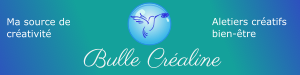
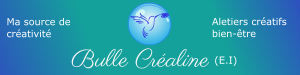
Renaming

Changed region(s): [[0.21, 0.64, 0.81, 0.9333]]

diff --git a/src/models/service.rs b/src/models/service.rs
@@ -66,7 +66,7 @@ pub fn section_title(pro: bool) -> &'static str {
 /// A constant rather than a field: every bookable workshop runs at this one
 /// address, and a workshop run for a structure takes place at the structure's, so
 /// there is nothing to choose per row. A second venue would make it a field.
-pub const STUDIO_ADDRESS: &str = "Bulle Créaline, 5 Rue Marc Seguin, 42110 Feurs";
+pub const STUDIO_ADDRESS: &str = "Bulle Créaline (E.I), 5 Rue Marc Seguin, 42110 Feurs";
 
 /// The same address on a map, for whoever would rather be guided than read.
 pub const STUDIO_MAP_URL: &str = "https://maps.app.goo.gl/Fgmpg9RF8HiPGrkf7";
@@ -93,69 +93,34 @@ pub fn is_valid_slug(candidate: &str) -> bool {
 pub fn slugify(label: &str) -> String {
     let mut slug = String::with_capacity(label.len());
 
-    for character in label.chars() {
-        match fold(character) {
-            // One hyphen per run of anything unusable, and never a leading one.
-            "" => {
-                if !slug.is_empty() && !slug.ends_with('-') {
-                    slug.push('-');
-                }
-            }
-            folded => slug.push_str(folded),
+    // `to_lowercase` rather than `to_ascii_lowercase`, which leaves 'À' and 'Œ'
+    // untouched: they would then fall through as unusable, and every accented
+    // capital would vanish from the slug.
+    for character in label.chars().flat_map(char::to_lowercase) {
+        match character {
+            'a'..='z' | '0'..='9' => slug.push(character),
+            _ => match ascii_for(character) {
+                Some(ascii) => slug.push_str(ascii),
+                // One hyphen per run of anything unusable, never a leading one.
+                None if !slug.is_empty() && !slug.ends_with('-') => slug.push('-'),
+                None => {}
+            },
         }
     }
 
     slug.trim_end_matches('-').to_owned()
 }
 
-/// The ASCII a character contributes to a slug, or `""` when it contributes none.
+/// The ASCII a French diacritic or ligature stands for, if any.
 ///
-/// The accented letters are spelled out rather than computed: stripping diacritics
-/// properly would mean pulling in Unicode normalization for the handful of letters
-/// French actually uses.
+/// Spelled out rather than computed: Unicode normalization would decompose the
+/// accented letters, but not `œ` or `æ`, so a table would be needed either way --
+/// and this one is twelve lines rather than a transliteration crate shipped in
+/// the WASM bundle for the eighteen characters French actually uses.
 ///
-/// Lowercased through `char::to_lowercase` rather than `to_ascii_lowercase`, which
-/// leaves `'À'` and `'Œ'` untouched and would drop every accented capital.
-fn fold(character: char) -> &'static str {
-    let lowered = character.to_lowercase().next().unwrap_or(character);
-
-    match lowered {
-        'a' => "a",
-        'b' => "b",
-        'c' => "c",
-        'd' => "d",
-        'e' => "e",
-        'f' => "f",
-        'g' => "g",
-        'h' => "h",
-        'i' => "i",
-        'j' => "j",
-        'k' => "k",
-        'l' => "l",
-        'm' => "m",
-        'n' => "n",
-        'o' => "o",
-        'p' => "p",
-        'q' => "q",
-        'r' => "r",
-        's' => "s",
-        't' => "t",
-        'u' => "u",
-        'v' => "v",
-        'w' => "w",
-        'x' => "x",
-        'y' => "y",
-        'z' => "z",
-        '0' => "0",
-        '1' => "1",
-        '2' => "2",
-        '3' => "3",
-        '4' => "4",
-        '5' => "5",
-        '6' => "6",
-        '7' => "7",
-        '8' => "8",
-        '9' => "9",
+/// Plain letters and digits never reach here: [`slugify`] keeps them by range.
+fn ascii_for(character: char) -> Option<&'static str> {
+    Some(match character {
         'à' | 'â' | 'ä' => "a",
         'ç' => "c",
         'é' | 'è' | 'ê' | 'ë' => "e",
@@ -165,8 +130,8 @@ fn fold(character: char) -> &'static str {
         'ÿ' => "y",
         'œ' => "oe",
         'æ' => "ae",
-        _ => "",
-    }
+        _ => return None,
+    })
 }
 
 /// The icons the admin can pick from, as `(name, what it looks like)`.
@@ -300,6 +265,9 @@ mod tests {
             // would then fall through as unusable and vanish from the slug.
             ("Œuvre collective", "oeuvre-collective"),
             ("ÉVEIL À L'ART", "eveil-a-l-art"),
+            // Already a slug: the range that keeps plain letters and digits must
+            // hand them back untouched rather than eat them as unusable.
+            ("aperos-creatifs", "aperos-creatifs"),
         ];
 
         for (label, expected) in cases {

diff --git a/src/pages/admin/services.rs b/src/pages/admin/services.rs
@@ -29,7 +29,7 @@ use crate::components::ui::select::{
 use crate::components::ui::service_icon::ServiceIcon;
 use crate::components::ui::table::*;
 use crate::components::ui::textarea::Textarea;
-use crate::models::{SERVICE_ICONS, ServiceView, icon_label, section_title};
+use crate::models::{SERVICE_ICONS, ServiceView, icon_label, section_title, slugify};
 use crate::pages::admin::AdminShell;
 
 /// What the admin is doing to the workshop list right now.
@@ -275,6 +275,27 @@ fn ServiceForm(
     // method on the `else` block at a glance, which is not what it means.
     let pro_value = if pro { "oui" } else { "non" };
 
+    let label_text = RwSignal::new(label.clone());
+    let slug_text = RwSignal::new(slug.clone());
+    // What the prefill last wrote, to tell its own doing from the admin's typing.
+    let generated = RwSignal::new(String::new());
+
+    // Creation only: on an edit the slug is read-only text, there being sessions
+    // and bookings filed under it.
+    if !editing_existing {
+        Effect::new(move |_| {
+            let candidate = slugify(&label_text.get());
+
+            // Silent for good once the admin has typed a slug of their own: the
+            // field is theirs from then on, and rewording the name must not undo
+            // it. Both start empty, so the first comparison holds and it fills.
+            if slug_text.get_untracked() == generated.get_untracked() {
+                slug_text.set(candidate.clone());
+                generated.set(candidate);
+            }
+        });
+    }
+
     view! {
         <Card>
             <CardHeader>
@@ -297,7 +318,33 @@ fn ServiceForm(
 
                             <div class="grid gap-3">
                                 <Label r#for="label">"Nom"</Label>
-                                <Input id="label" name="label" required=true attr:value=label/>
+                                // Bound only on a creation, where the slug follows
+                                // what is typed here. `bind:value` renders no
+                                // `value` attribute server-side, so an edit keeps
+                                // the plain attribute or it would open blank.
+                                {if editing_existing {
+                                    Either::Left(
+                                        view! {
+                                            <Input
+                                                id="label"
+                                                name="label"
+                                                required=true
+                                                attr:value=label
+                                            />
+                                        },
+                                    )
+                                } else {
+                                    Either::Right(
+                                        view! {
+                                            <Input
+                                                id="label"
+                                                name="label"
+                                                required=true
+                                                bind_value=label_text
+                                            />
+                                        },
+                                    )
+                                }}
                             </div>
 
                             <div class="grid gap-3">
@@ -324,6 +371,7 @@ fn ServiceForm(
                                                 id="slug"
                                                 name="slug"
                                                 required=true
+                                                bind_value=slug_text
                                                 attr:placeholder="aperos-creatifs"
                                             />
                                             <p class="text-sm text-muted-foreground">

diff --git a/src/app.rs b/src/app.rs
@@ -24,13 +24,13 @@ pub fn App() -> impl IntoView {
         <Stylesheet id="leptos" href="/pkg/bulle_crealine.css"/>
 
         // sets the document title
-        <Title text="Bulle Créaline"/>
+        <Title text="Bulle Créaline (E.I)"/>
 
-        <Meta property="og:title" content="Bulle Créaline" />
+        <Meta property="og:title" content="Bulle Créaline (E.I)" />
         <Meta property="og:url" content="https://bulle-crealine.onrender.com" />
         <Meta property="og:image" content="https://bulle-crealine.onrender.com/assets/meta.png" />
-        <Meta property="og:description" content="Médiation artistique en relation d'aide." />
-        <Meta property="og:site_name" content="Bulle Créaline" />
+        <Meta property="og:description" content="Ateliers créatifs à Feurs" />
+        <Meta property="og:site_name" content="Bulle Créaline (E.I)" />
         <Meta property="og:type" content="website" />
 
         // content for this welcome page

diff --git a/src/pages/moi_et_mon_atelier/qui_suis_je.rs b/src/pages/moi_et_mon_atelier/qui_suis_je.rs
@@ -65,7 +65,7 @@ pub fn QuiSuisJePage() -> impl IntoView {
                     <div class="space-y-4 rounded-[2rem] border border-border bg-surface text-surface-foreground p-6 shadow-sm">
                         <p class="text-base leading-8">
                             "Avec "
-                            <span class="font-semibold text-heading">"La Bulle Créaline"</span>
+                            <span class="font-semibold text-heading">"La Bulle Créaline (E.I)"</span>
                             ", je souhaite offrir un lieu chaleureux, vivant et rassurant, où l'on vient créer, souffler et repartir avec un peu plus de fierté et de joie."
                         </p>
                         /* Sized at 24px so it clears WCAG as large text: the accent

diff --git a/src/components/blocks/footer_block.rs b/src/components/blocks/footer_block.rs
@@ -12,7 +12,7 @@ pub fn FooterBlock() -> impl IntoView {
                     <div class="flex items-center gap-2">
                         <img src="/assets/icon.svg" alt="Logo" class="w-16 h-16"/>
                         <div class="flex flex-col">
-                            <div>Bulle Créaline</div>
+                            <div>Bulle Créaline (E.I)</div>
                             <div class="text-sm text-muted-foreground">Ma source de créativité</div>
                         </div>
                     </div>

diff --git a/src/pages/service.rs b/src/pages/service.rs
@@ -62,7 +62,7 @@ pub fn ServicePage() -> impl IntoView {
                     match found {
                         None => Either::Left(view! { <NotFound/> }),
                         Some(service) => {
-                            let title = format!("{} — Bulle Créaline", service.label);
+                            let title = format!("{} — Bulle Créaline (E.I)", service.label);
 
                             Either::Right(
                                 view! {

diff --git a/src/pages/home.rs b/src/pages/home.rs
@@ -11,7 +11,7 @@ pub fn HomePage() -> impl IntoView {
 
     view! {
         <div class="home-hero border border-(--border) rounded-[2rem] shadow-(--shadow) max-w-4xl mx-auto">
-            <h2 class="home-hero-title">"Bulle Créaline"</h2>
+            <h2 class="home-hero-title">"Bulle Créaline (E.I)"</h2>
             <h3>"Ma source de créativité"</h3>
             <h3>"Ateliers créatifs bien-être"</h3>
         </div>

diff --git a/src/pages/moi_et_mon_atelier/catalogue.rs b/src/pages/moi_et_mon_atelier/catalogue.rs
@@ -17,7 +17,7 @@ pub fn CataloguePage() -> impl IntoView {
     let services = Resource::new(|| (), |()| async move { all_services().await });
 
     view! {
-        <Title text="Catalogue des ateliers — Bulle Créaline"/>
+        <Title text="Catalogue des ateliers — Bulle Créaline (E.I)"/>
 
         <div class="py-6 mx-auto space-y-10 max-w-6xl">
             <div class="space-y-4 text-center">

diff --git a/src/pages/not_found.rs b/src/pages/not_found.rs
@@ -26,7 +26,7 @@ pub fn NotFound() -> impl IntoView {
     }
 
     view! {
-        <Title text="Bientôt disponible — Bulle Créaline"/>
+        <Title text="Bientôt disponible — Bulle Créaline (E.I)"/>
 
         <div class="flex flex-col gap-4 items-center py-16 mx-auto max-w-2xl text-center">
             <h1 class="text-4xl font-semibold tracking-tight text-heading">

diff --git a/src/pages/admin/dashboard.rs b/src/pages/admin/dashboard.rs
@@ -8,7 +8,7 @@ use crate::pages::admin::AdminShell;
 #[component]
 pub fn AdminPage() -> impl IntoView {
     view! {
-        <Title text="Administration — Bulle Créaline"/>
+        <Title text="Administration — Bulle Créaline (E.I)"/>
 
         <AdminShell title="Administration" current="/admin">
             <div class="grid gap-4 md:grid-cols-2">

diff --git a/src/pages/booking.rs b/src/pages/booking.rs
@@ -36,7 +36,7 @@ pub fn BookingPage() -> impl IntoView {
     let chosen = use_query_map().get_untracked().get("session");
 
     view! {
-        <Title text="Réserver un atelier — Bulle Créaline"/>
+        <Title text="Réserver un atelier — Bulle Créaline (E.I)"/>
 
         <Transition fallback=|| {
             view! {

diff --git a/src/pages/admin/login.rs b/src/pages/admin/login.rs
@@ -42,7 +42,7 @@ pub fn AdminLoginPage() -> impl IntoView {
     };
 
     view! {
-        <Title text="Connexion — Bulle Créaline"/>
+        <Title text="Connexion — Bulle Créaline (E.I)"/>
 
         <div class="flex justify-center items-center py-10 w-full">
             <div class="w-full max-w-sm">
